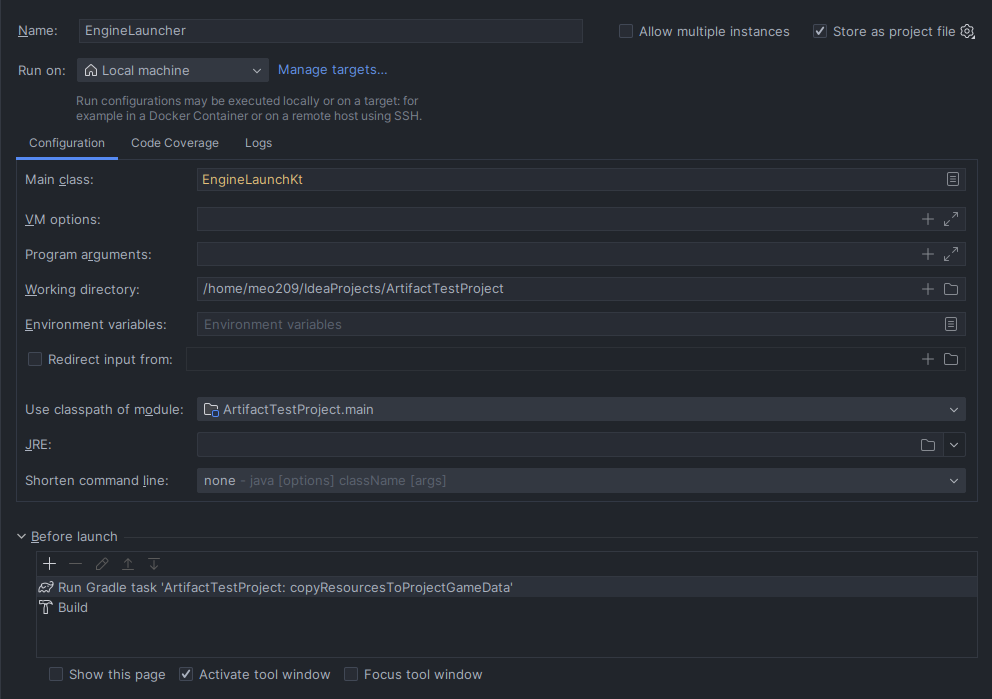
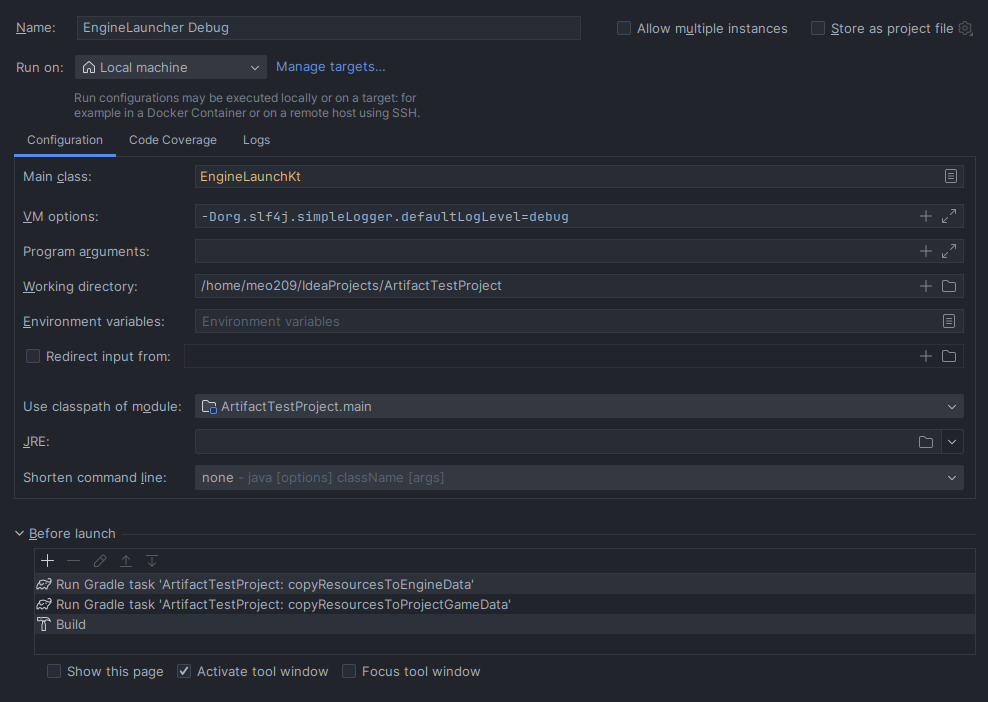
docs: README fixes.

diff --git a/README.md b/README.md
@@ -30,7 +30,7 @@ Running the project requires creating a run configuration like this:
 
 ![runConfiguration in intellij](docs/runConfig.png "Run Configuration in IntelliJ idea")
 
-Make sure to add the "copyResourcesToGameData" gradle task **before** the build task.
+Make sure to add the "copyResourcesToProjectGameData" and "copyResourcesToEngineData" gradle task **before** the build task.
 
 If using the debug level, add the following to the VM options:
 ```
